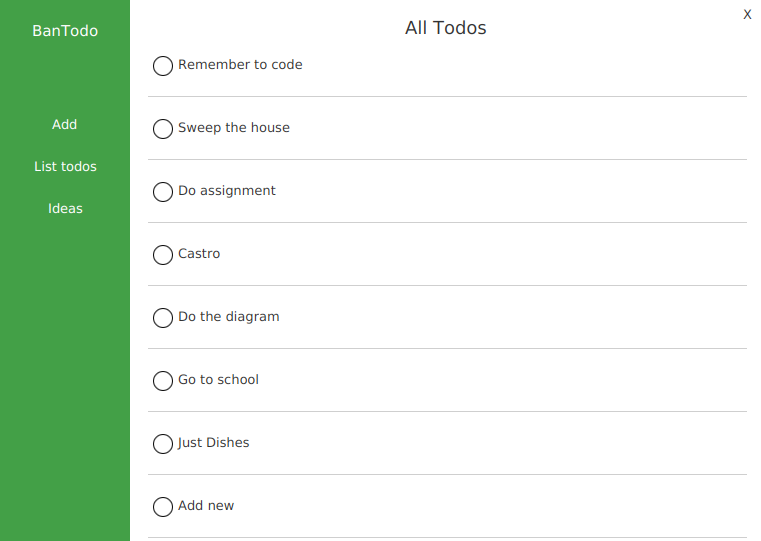
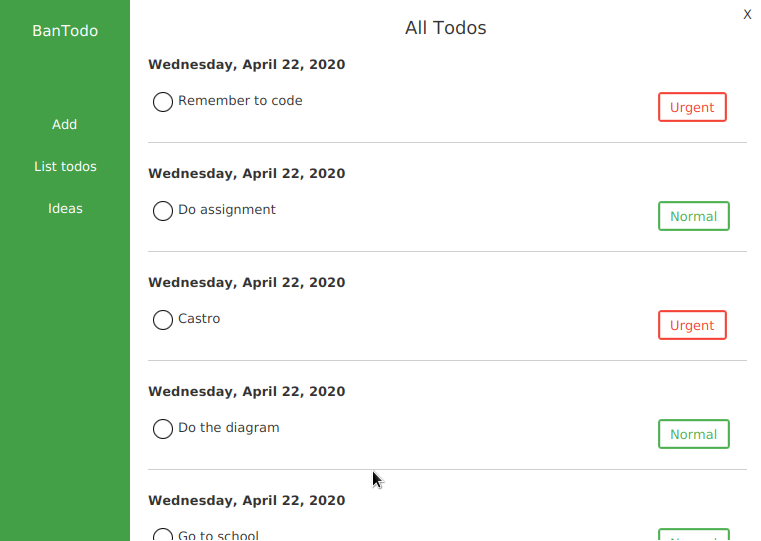
added date to list

diff --git a/src/main/resources/css/s.css b/src/main/resources/css/s.css
@@ -8,14 +8,23 @@
      -fx-color:black;
      -fx-text-fill:black;
  }
- .labelstate{
+ .labelstatefalse{
     -fx-background-color: white;
-    -fx-border-color:red;
+    -fx-border-color:#f44336;
     -fx-border-radius:0.2em;
     -fx-padding:5px 10px 5px 10px; 
     -fx-border-width:2px;
-    -fx-color:red;
-    -fx-text-fill:red;
+    -fx-color:#f44336;
+    -fx-text-fill:#f44336;
+ }
+ .labelstatetrue{
+    -fx-background-color: white;
+    -fx-border-color:#4CAF50;
+    -fx-border-radius:0.2em;
+    -fx-padding:5px 10px 5px 10px; 
+    -fx-border-width:2px;
+    -fx-color:#4CAF50;
+    -fx-text-fill:#4CAF50;
  }
 
  .side_buttons{

diff --git a/target/classes/css/s.css b/target/classes/css/s.css
@@ -8,14 +8,23 @@
      -fx-color:black;
      -fx-text-fill:black;
  }
- .labelstate{
+ .labelstatefalse{
     -fx-background-color: white;
-    -fx-border-color:red;
+    -fx-border-color:#f44336;
     -fx-border-radius:0.2em;
     -fx-padding:5px 10px 5px 10px; 
     -fx-border-width:2px;
-    -fx-color:red;
-    -fx-text-fill:red;
+    -fx-color:#f44336;
+    -fx-text-fill:#f44336;
+ }
+ .labelstatetrue{
+    -fx-background-color: white;
+    -fx-border-color:#4CAF50;
+    -fx-border-radius:0.2em;
+    -fx-padding:5px 10px 5px 10px; 
+    -fx-border-width:2px;
+    -fx-color:#4CAF50;
+    -fx-text-fill:#4CAF50;
  }
 
  .side_buttons{

diff --git a/src/main/java/Controllers/Controller.java b/src/main/java/Controllers/Controller.java
@@ -6,6 +6,9 @@ import java.io.FileReader;
 import java.io.FileWriter;
 import java.io.IOException;
 import java.net.URL;
+import java.time.LocalDate;
+import java.time.format.DateTimeFormatter;
+import java.time.format.FormatStyle;
 import java.util.ArrayList;
 import java.util.HashMap;
 import java.util.List;
@@ -59,11 +62,11 @@ public class Controller implements Initializable {
             if (i.get("text").trim().equals(d.trim())) {
 
                 i.remove("text");
-                i.remove("complete");
+                i.remove("urgency");
                 todo_list.getChildren().clear();
 
             } else {
-                all += i.get("text").trim() + "\n";
+                all += i.get("text").trim()+";"+i.get("due")+";"+i.get("urgency") + "\n";
             }
 
         }
@@ -74,15 +77,16 @@ public class Controller implements Initializable {
         addAll(data1);
     }
 
-    private void populate(String a) {
-
+    private void populate(String a,String b,String c) {
+        LocalDate d = LocalDate.parse(b);
+       String dueDate =  d.format(DateTimeFormatter.ofLocalizedDate(FormatStyle.FULL));
         Separator s = new Separator();
         checkBox = new CheckBox();
         Insets pad = new Insets(0.0, 5.0, 0.0, 5.0);
         System.out.println(checkBox.getStyle());
         Label label = new Label();
         label.setText(a);
-        label.setPrefWidth(350.0);
+        label.setPrefWidth(480.0);
         HBox hBox = new HBox();
         hBox.getStyleClass().add("hbox");
         checkBox.setPadding(pad);
@@ -97,13 +101,23 @@ public class Controller implements Initializable {
                 }
             }
         });
-        Label l = new Label("completed");
-        l.setPrefSize(130.0, 50.0);
-        l.setPadding(new Insets(5.0, 5.0, 5.0, 5.0));
-        l.getStyleClass().add("labelstate");
+        Label la = new Label(dueDate);
+        // vBox.getChildren().addAll(b);
+        Label l ;
+        if(new Boolean(c)){
+            l = new Label("Normal");
+            l.getStyleClass().add("labelstatetrue");
+        }
+        else{
+            l = new Label("Urgent");
+            l.getStyleClass().add("labelstatefalse");
+        }
+        la.setStyle("-fx-font-weight: bold");
+        // l.setPrefSize(130.0, 50.0);
+        // l.setPadding(new Insets(5.0, 5.0, 5.0, 5.0));
         l.setAlignment(Pos.CENTER);
-        hBox.getChildren().addAll(checkBox, label );
-        todo_list.getChildren().addAll(hBox, s);
+        hBox.getChildren().addAll(checkBox, label,l );
+        todo_list.getChildren().addAll(la, hBox,s);
         // todo_list.getItems().addAll(vbox);
     }
 
@@ -125,7 +139,7 @@ public class Controller implements Initializable {
 
     public void add(String text) {
         // String text = get_input.getText();
-        populate(text);
+        populate(text,"","");
         write_to_file(text, true);
 
     }
@@ -145,8 +159,10 @@ public class Controller implements Initializable {
             String line;
             while ((line = br.readLine()) != null) {
                 Map<String, String> aMap = new HashMap<String, String>();
-                aMap.put("text", line);
-                aMap.put("complete", "false");
+                String[]a = line.split(";");
+                aMap.put("text", a[0]);
+                aMap.put("due", a[1]);
+                aMap.put("urgency", a[2]);
                 d.add(aMap);
             }
             // return d;
@@ -161,7 +177,7 @@ public class Controller implements Initializable {
 
     private void addAll(List<Map<String, String>> data) {
         for (Map<String, String> i : data) {
-            populate(i.get("text"));
+            populate(i.get("text"),i.get("due"),i.get("urgency"));
         }
     }
 

diff --git a/src/main/java/Controllers/AddController.java b/src/main/java/Controllers/AddController.java
@@ -1,11 +1,14 @@
 package Controllers;
 
 import java.io.IOException;
+import java.time.format.DateTimeFormatter;
+import java.time.format.FormatStyle;
 
 import javafx.fxml.FXMLLoader;
 import javafx.scene.Parent;
 import javafx.scene.Scene;
 import javafx.scene.control.Button;
+import javafx.scene.control.DatePicker;
 import javafx.scene.control.TextArea;
 import javafx.stage.Stage;
 
@@ -14,6 +17,7 @@ public class AddController {
     public Button close_btn;
     public Button save_btn;
     public TextArea text_area;
+    public DatePicker date_picker;
     Controller c = new Controller();
 
     public void close_app() {
@@ -23,8 +27,10 @@ public class AddController {
     }
 
     public void add_todo() throws IOException {
+        System.out.println(date_picker.getValue().format(DateTimeFormatter.ofLocalizedDate(FormatStyle.FULL)));
+        
         System.out.println(text_area.getText());
-        c.write_to_file(text_area.getText(),true);
+        c.write_to_file(text_area.getText()+";"+date_picker.getValue()+";false",true);
         Stage stage =(Stage) text_area.getScene().getWindow();
         Parent root = FXMLLoader.load(getClass().getClassLoader().getResource("ui/todo.fxml"));
         Scene scene = new Scene(root);
